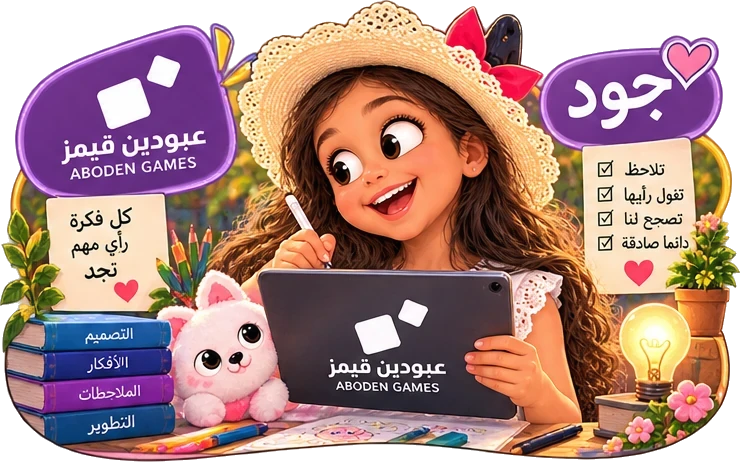
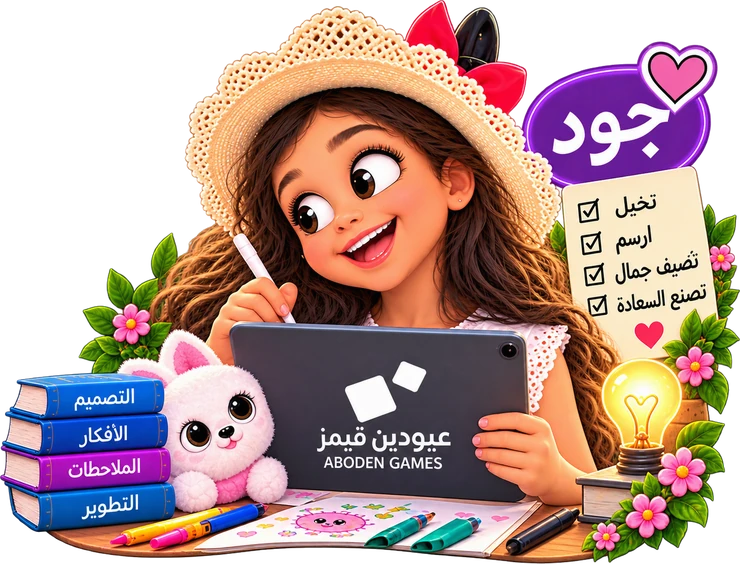
Team: owner's new cards for Joud and Najd
Claude-Session: https://claude.ai/code/session_01CQGAnAoMPimV29kYCPnJr4

diff --git a/AGENTS.md b/AGENTS.md
@@ -42,7 +42,7 @@
 
 - Owner asked for better image layout/quality, smaller typography and less all-navy background. Overrides live in `public/assets/refresh.css` (loaded last): fluid type scale, 4:5 poster cards (whole artwork kept with a blurred fill), sand-coloured bands (`.band-sand`).
 - Owner allowed taking images from the game repositories or designing new ones. Higher-resolution copies and the designed AR-lab poster live in `public/assets/posters/`; each is recorded in `src/data/poster-sources.json` and wired through `poster`/`art` in `game-sections.json`. Original `assets/projects/` covers stay byte-identical.
-- Team portraits (`public/assets/team/{aboden,nasser,joud,najd}.webp`) are each member's full quadrant of the owner-supplied team illustration, frame and details intact, transparent background kept (WebP with alpha; never flatten to a square), no face crops, no upscaling. Show them small. The group illustration is not shown on the team page.
+- Team portraits (`public/assets/team/{aboden,nasser,joud,najd}.webp`; Joud and Najd replaced by the owner's new individual cards on 2026-10-16) are each member's full quadrant of the owner-supplied team illustration, frame and details intact, transparent background kept (WebP with alpha; never flatten to a square), no face crops, no upscaling. Show them small. The group illustration is not shown on the team page.
 - Search indexing stays off (noindex) until the owner says the site is finished.
 - AR lab hosted here (owner instruction 2026-10-15: «التجارب انقل الصفحة لنفس المستودع وخليها بنفس الهوية»): the lab's runtime files from 3wasfnjd/AR-Aboden@56a234f live in `public/ar-lab/` and are served at `/ar-lab/`. Each page links `ar-lab/brand.css` (Cairo, navy/orange, branded way back to `/ar/`) and is noindex; `ar-lab/index.html` redirects to `/ar/`. Licence files (including the GPL-3.0 sand experience notice) are kept. The original repository stays untouched.
 - Tools section on the studio page (owner request 2026-10-15): Claude, ChatGPT, Gemini, Tripo AI, GitHub from `src/data/tools.json`; logos from simple-icons where available, a plain name badge otherwise. The domain registrar logo is pending until the owner names the registrar.
